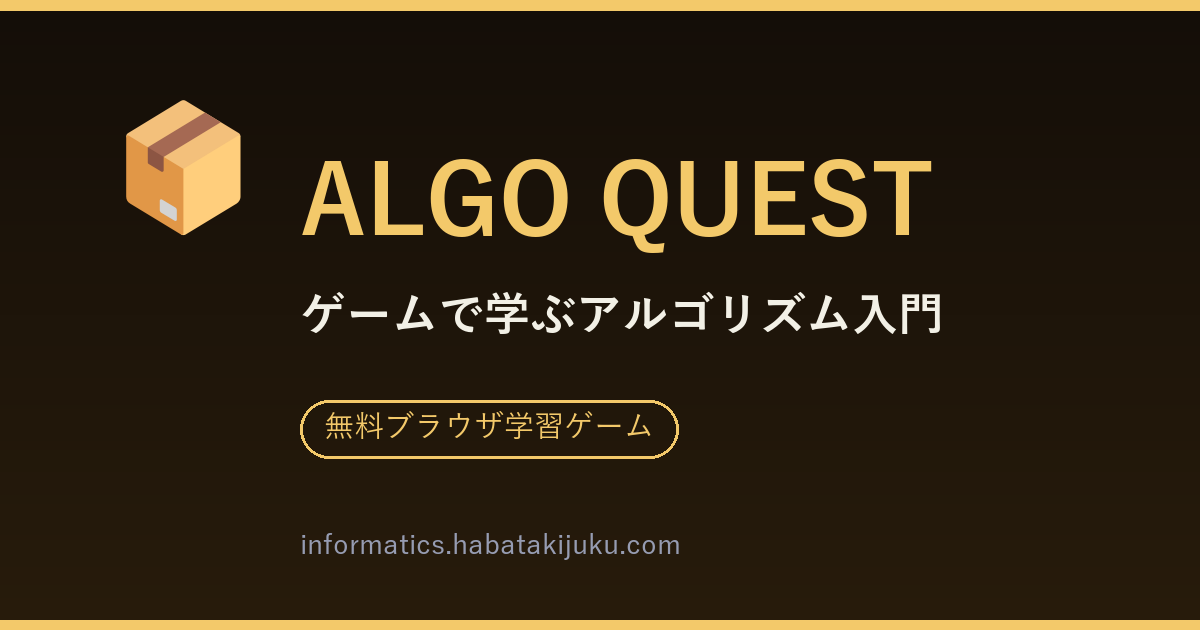
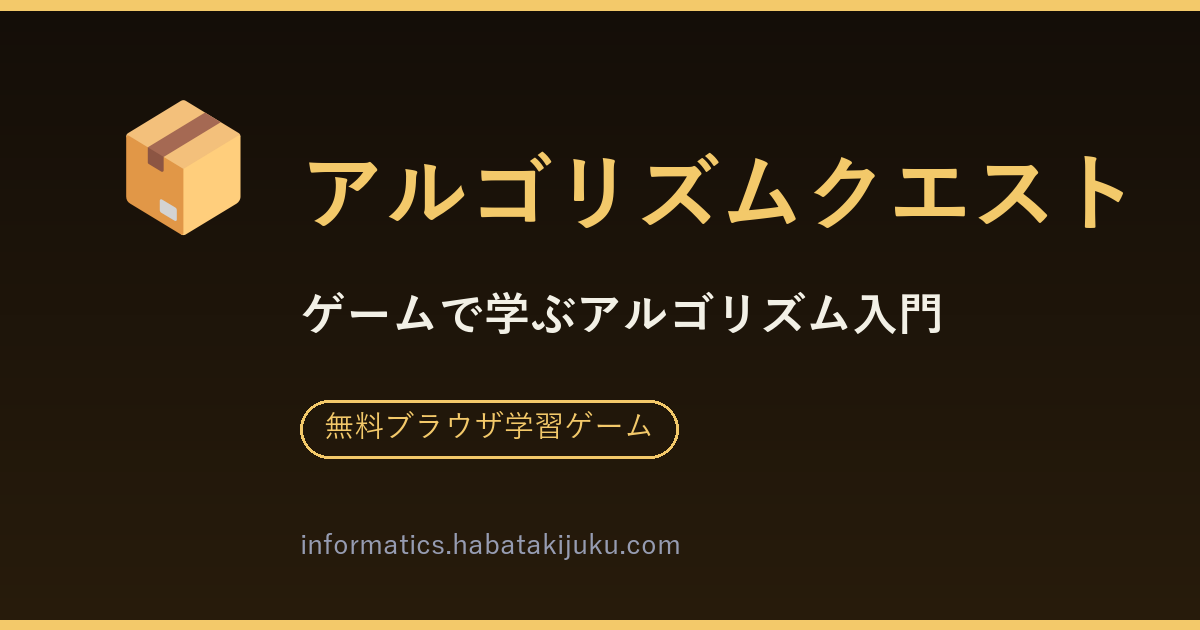
feat: 全ゲームを日本語名に改名、OGP画像を新名称で再生成
- マップラベル・クエスト詳細・JSON-LDを新名称に更新
- OOP表記をオブジェクト指向に統一
- モバイルのノードラベル折り返しと端の見切れを改善

Changed region(s): [[0.2467, 0.2413, 0.9558, 0.4222]]

diff --git a/index.html b/index.html
@@ -4,13 +4,13 @@
 <meta charset="UTF-8">
 <meta name="viewport" content="width=device-width, initial-scale=1.0">
 <title>情報技術クエスト集 ― ruglerugle学習ゲーム一覧 ―</title>
-<meta name="description" content="アルゴリズム・CPU・メモリ・ネットワーク・OOP・ポインタを学べる無料ブラウザ学習ゲーム集。ワールドマップから各クエストへ出発しよう。">
+<meta name="description" content="アルゴリズム・CPU・メモリ・ネットワーク・オブジェクト指向・ポインタを学べる無料ブラウザ学習ゲーム集。ワールドマップから各クエストへ出発しよう。">
 <link rel="canonical" href="https://informatics.habatakijuku.com/">
 <meta property="og:type" content="website">
 <meta property="og:site_name" content="情報技術クエスト集">
 <meta property="og:locale" content="ja_JP">
 <meta property="og:title" content="情報技術クエスト集 ― ruglerugle学習ゲーム一覧 ―">
-<meta property="og:description" content="アルゴリズム・CPU・メモリ・ネットワーク・OOP・ポインタを学べる無料ブラウザ学習ゲーム集。">
+<meta property="og:description" content="アルゴリズム・CPU・メモリ・ネットワーク・オブジェクト指向・ポインタを学べる無料ブラウザ学習ゲーム集。">
 <meta property="og:url" content="https://informatics.habatakijuku.com/">
 <meta property="og:image" content="https://informatics.habatakijuku.com/images/ogp/hub.png">
 <meta property="og:image:width" content="1200">
@@ -22,16 +22,16 @@
   "@context": "https://schema.org",
   "@type": "ItemList",
   "name": "情報技術クエスト集",
-  "description": "アルゴリズム・CPU・メモリ・ネットワーク・OOP・ポインタを学べる無料ブラウザ学習ゲーム集。",
+  "description": "アルゴリズム・CPU・メモリ・ネットワーク・オブジェクト指向・ポインタを学べる無料ブラウザ学習ゲーム集。",
   "url": "https://informatics.habatakijuku.com/",
   "inLanguage": "ja",
   "itemListElement": [
-    { "@type": "ListItem", "position": 1, "name": "ALGO QUEST ― 王国の物流エンジニア ―", "url": "https://informatics.habatakijuku.com/algo-quest/" },
+    { "@type": "ListItem", "position": 1, "name": "アルゴリズムクエスト ― 王国の物流エンジニア ―", "url": "https://informatics.habatakijuku.com/algo-quest/" },
     { "@type": "ListItem", "position": 2, "name": "論理回路CPUクエスト", "url": "https://informatics.habatakijuku.com/cpu-logic-game/" },
-    { "@type": "ListItem", "position": 3, "name": "MEMORY QUEST ― 王国の記憶管理士 ―", "url": "https://informatics.habatakijuku.com/memory-quest/" },
-    { "@type": "ListItem", "position": 4, "name": "NET QUEST ― 届け！そのパケット ―", "url": "https://informatics.habatakijuku.com/net-quest/" },
-    { "@type": "ListItem", "position": 5, "name": "OOPクエスト ― 動物園チュートリアル ―", "url": "https://informatics.habatakijuku.com/oop-game/" },
-    { "@type": "ListItem", "position": 6, "name": "C POINTER DOJO ― ポインタ道場 ―", "url": "https://informatics.habatakijuku.com/c-pointer-dojo/" }
+    { "@type": "ListItem", "position": 3, "name": "メモリのしくみクエスト ― 王国の記憶管理士 ―", "url": "https://informatics.habatakijuku.com/memory-quest/" },
+    { "@type": "ListItem", "position": 4, "name": "ネットワーククエスト ― 届け！そのパケット ―", "url": "https://informatics.habatakijuku.com/net-quest/" },
+    { "@type": "ListItem", "position": 5, "name": "オブジェクト指向クエスト ― 動物園ではじめるクラス設計 ―", "url": "https://informatics.habatakijuku.com/oop-game/" },
+    { "@type": "ListItem", "position": 6, "name": "C言語ポインタ道場 ― コードで見るメモリの動き ―", "url": "https://informatics.habatakijuku.com/c-pointer-dojo/" }
   ]
 }
 </script>
@@ -234,7 +234,9 @@
 
     .node{max-width:30%}
     .node .badge{width:46px;height:46px;font-size:20px}
-    .node .label{font-size:9px;padding:2px 5px;white-space:normal;text-align:center;line-height:1.25}
+    .node .label{font-size:9px;padding:2px 5px;white-space:normal;text-align:center;line-height:1.25;width:max-content;max-width:104px}
+    .node.n1 .label{position:relative;left:14px}
+    .node.n4 .label{position:relative;left:-14px}
 
     .questlog{flex-direction:column}
   }
@@ -262,7 +264,7 @@
   <header>
     <span class="eyebrow">FREE BROWSER LEARNING GAMES</span>
     <h1>情報技術クエスト集</h1>
-    <p>王国に広がる6つの領域 ― アルゴリズム・OOP・CPU・メモリ・ネットワーク・ポインタ。地図から気になるクエストへ旅立とう。</p>
+    <p>王国に広がる6つの領域 ― アルゴリズム・オブジェクト指向・CPU・メモリ・ネットワーク・ポインタ。地図から気になるクエストへ旅立とう。</p>
   </header>
 
   <div class="map-frame">
@@ -303,11 +305,11 @@
 
       <!-- quest nodes -->
       <a class="node n1" href="/algo-quest/"
-         data-accent="#5ec8ff" data-icon="🗺" data-sub="ALGORITHM" data-title="ALGO QUEST"
+         data-accent="#5ec8ff" data-icon="🗺" data-sub="ALGORITHM" data-title="アルゴリズムクエスト"
          data-desc="王国の物流エンジニアとして、探索・ソート・データ構造を駆使して配送網を最適化する。"
          data-tags="アルゴリズム,データ構造" data-num="1" data-time="約20分" data-level="入門">
         <div class="badge" style="--accent:#5ec8ff">🗺<span class="num">1</span></div>
-        <div class="label">ALGO QUEST</div>
+        <div class="label">アルゴリズムクエスト</div>
       </a>
 
       <a class="node n2" href="/cpu-logic-game/"
@@ -319,42 +321,42 @@
       </a>
 
       <a class="node n3" href="/memory-quest/"
-         data-accent="#ffb648" data-icon="🧠" data-sub="MEMORY / OS" data-title="MEMORY QUEST"
+         data-accent="#ffb648" data-icon="🧠" data-sub="MEMORY / OS" data-title="メモリのしくみクエスト"
          data-desc="王国の記憶管理士として、RAM・スタック・ヒープ・GC・キャッシュ・仮想メモリの仕組みを巡る。"
          data-tags="メモリ管理,OS/アーキテクチャ" data-num="3" data-time="約40分" data-level="中級">
         <div class="badge" style="--accent:#ffb648">🧠<span class="num">3</span></div>
-        <div class="label">MEMORY QUEST</div>
+        <div class="label">メモリのしくみクエスト</div>
       </a>
 
       <a class="node n4" href="/net-quest/"
-         data-accent="#4fd8c4" data-icon="📡" data-sub="NETWORK" data-title="NET QUEST"
+         data-accent="#4fd8c4" data-icon="📡" data-sub="NETWORK" data-title="ネットワーククエスト"
          data-desc="届け、そのパケット。IPアドレスやルーティング、プロトコルの階層をたどりながら通信の仕組みを学ぶ。"
          data-tags="ネットワーク,通信プロトコル" data-num="4" data-time="約60分" data-level="中級">
         <div class="badge" style="--accent:#4fd8c4">📡<span class="num">4</span></div>
-        <div class="label">NET QUEST</div>
+        <div class="label">ネットワーククエスト</div>
       </a>
 
       <a class="node n5" href="/oop-game/"
-         data-accent="#7fe07f" data-icon="🦒" data-sub="OBJECT ORIENTED" data-title="OOPクエスト"
-         data-desc="動物園チュートリアルから始まり、クラス・継承・ポリモーフィズムなどOOPの考え方を学ぶ。"
+         data-accent="#7fe07f" data-icon="🦒" data-sub="OBJECT ORIENTED" data-title="オブジェクト指向クエスト"
+         data-desc="動物園チュートリアルから始まり、クラス・継承・ポリモーフィズムなどオブジェクト指向の考え方を学ぶ。"
          data-tags="オブジェクト指向,設計" data-num="5" data-time="約30分" data-level="入門">
         <div class="badge" style="--accent:#7fe07f">🦒<span class="num">5</span></div>
-        <div class="label">OOPクエスト</div>
+        <div class="label">オブジェクト指向クエスト</div>
       </a>
 
       <a class="node n6" href="/c-pointer-dojo/"
-         data-accent="#f0955f" data-icon="👉" data-sub="C LANGUAGE / POINTER" data-title="C POINTER DOJO"
+         data-accent="#f0955f" data-icon="👉" data-sub="C LANGUAGE / POINTER" data-title="C言語ポインタ道場"
          data-desc="変数とアドレスからmalloc/free、二重ポインタ、連結リストまで。Cコードを1行ずつ実行してスタック/ヒープを可視化。"
          data-tags="C言語,ポインタ" data-num="6" data-time="約40分" data-level="中級">
         <div class="badge" style="--accent:#f0955f">👉<span class="num">6</span></div>
-        <div class="label">C POINTER DOJO</div>
+        <div class="label">C言語ポインタ道場</div>
       </a>
 
     </div>
   </div>
 
   <div class="questlog" id="questlog">
-    <p class="hint">地図上のクエストにカーソルを合わせる（またはタップする）と、ここに詳細が表示されます。<br>番号順に進めば無理なく学べます。初めての方は <strong>① ALGO QUEST（約20分・入門）</strong>から！</p>
+    <p class="hint">地図上のクエストにカーソルを合わせる（またはタップする）と、ここに詳細が表示されます。<br>番号順に進めば無理なく学べます。初めての方は <strong>① アルゴリズムクエスト（約20分・入門）</strong>から！</p>
   </div>
 
   <footer>
